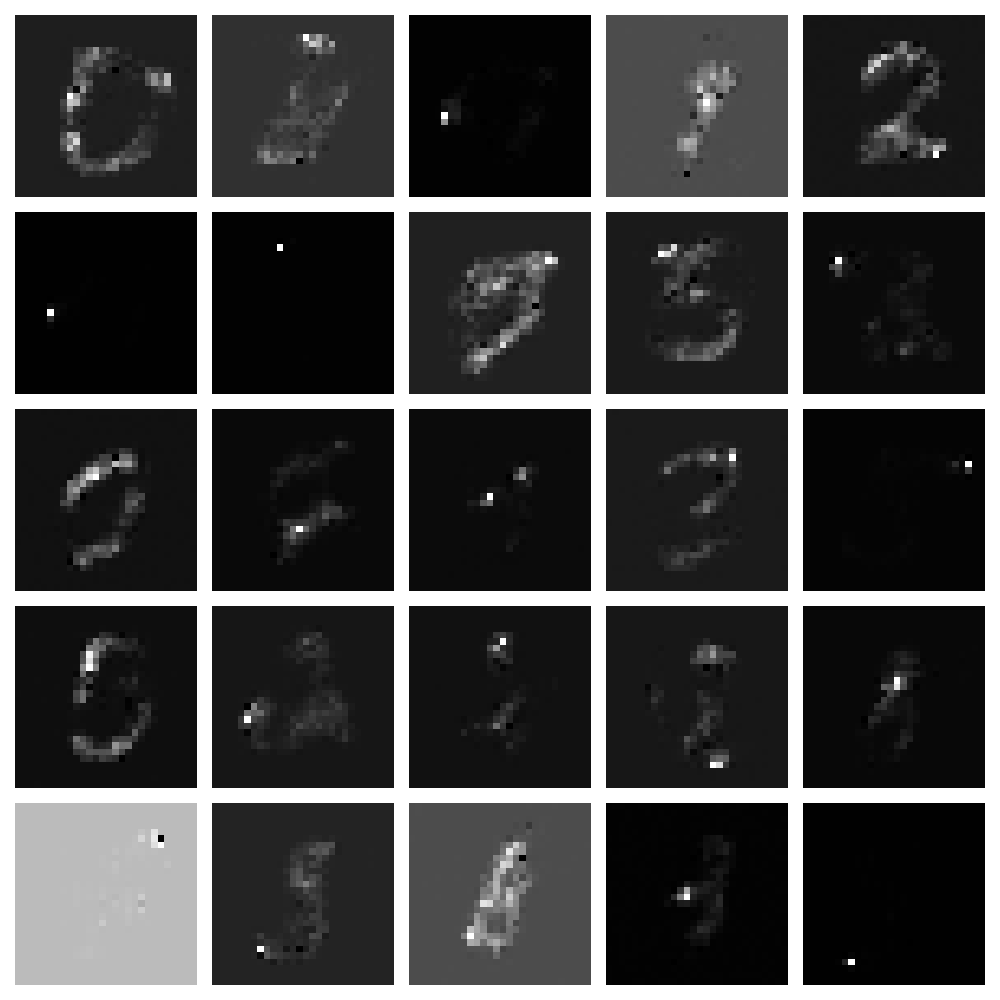
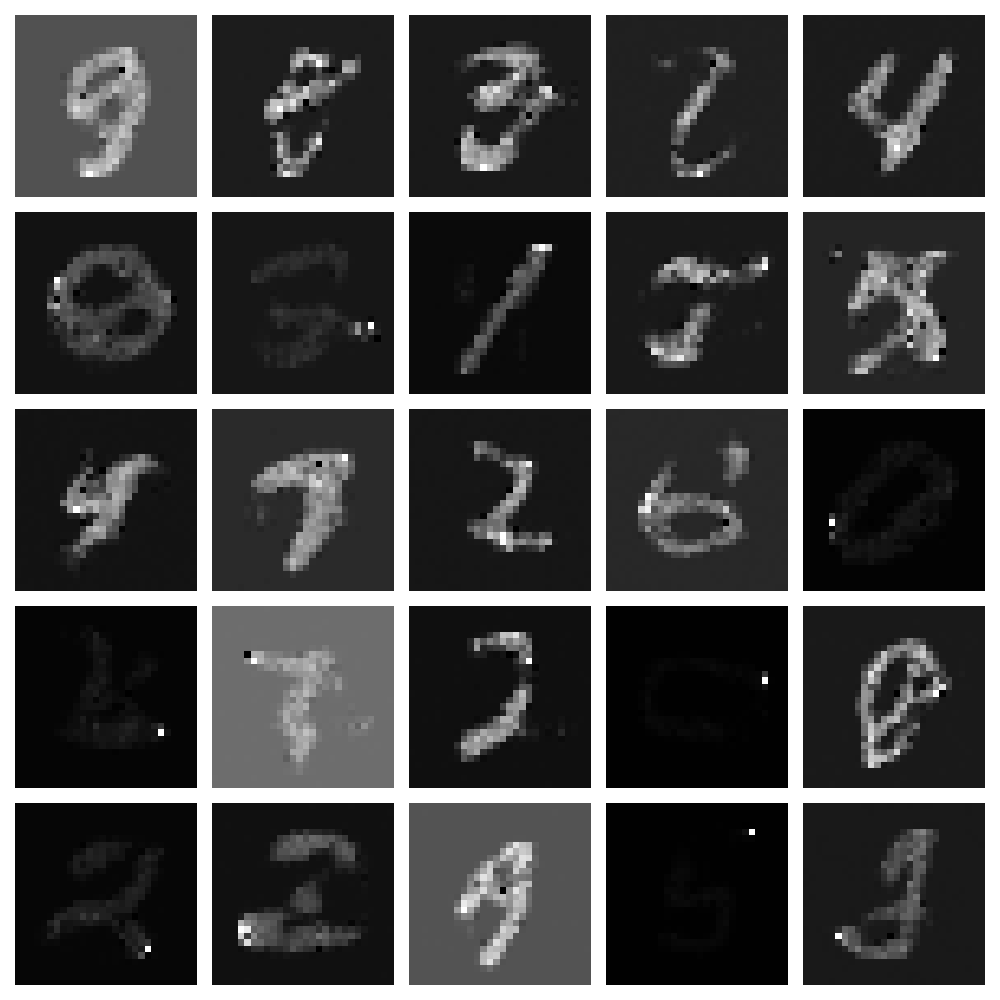
added device support, with registering buffers for masks

diff --git a/model/realnvp.py b/model/realnvp.py
@@ -68,8 +68,9 @@ class AffineCouplingLayer1d(nn.Module):
     super().__init__()
 
     self.idim = idim
+    # register this as buffer so it's automatically moved to devices
+    self.register_buffer("mask", self._init_mask(mask_first))
 
-    self.mask = self._init_mask(mask_first)
     self.s = self.MLP(idim, hdim, depth=neural_net_layers)
     self.t = self.MLP(idim, hdim, depth=neural_net_layers)
 
@@ -132,7 +133,8 @@ class AffineCouplingLayer2d(nn.Module):
     super().__init__()
     assert len(idim) >= 2 
     self.idim = idim 
-    self.mask = self._init_mask(mask_first) 
+    self.register_buffer("mask", self._init_mask(mask_first)) 
+    
 
     self.s = self.CNN(idim, depth=neural_net_layers) 
     self.t = self.CNN(idim, depth=neural_net_layers) 
@@ -177,7 +179,7 @@ class RealNVP(nn.Module):
   affine coupling layer, and convolutions to process 2d images directly. 
   """
 
-  def __init__(self, idim: Size, n_coupling_layers: int, neural_net_layers: int, hdim: Size): 
+  def __init__(self, idim: Size, n_coupling_layers: int, neural_net_layers: int, hdim: Size, device): 
     super().__init__()
     self.idim = idim
     
@@ -189,6 +191,8 @@ class RealNVP(nn.Module):
     self.coupling_layers = nn.ModuleList(coupling_layers)
 
     self.latent_prior = LogisticDistribution()
+    self.device = device
+    self.to(device)
 
   def forward(self, x: Tensor): 
     logdet_accum = 0.0
@@ -204,6 +208,6 @@ class RealNVP(nn.Module):
     return z 
 
   def sample(self, n_samples: int): 
-    z = self.latent_prior.sample([n_samples, *self.idim])
+    z = self.latent_prior.sample([n_samples, *self.idim]).to(self.device)
     return self.inverse(z)
 

diff --git a/model/nice.py b/model/nice.py
@@ -35,7 +35,8 @@ class CouplingLayer(nn.Module):
     super().__init__()
     self.idim = dim  
     self.odim = dim
-    self.mask = self._init_mask(mask_first)
+    self.register_buffer("mask", self._init_mask(mask_first))
+    
     self.mlp = self.MLP(dim, hdim, depth=neural_net_layers)
 
   def _init_mask(self, mask_first: bool): 
@@ -86,7 +87,7 @@ class NICE(nn.Module):
   Simplest finite normalizing flow model by Dinh 2014. 
   """
 
-  def __init__(self, idim: Size, n_coupling_layers: int, neural_net_layers: int, hdim: Size): 
+  def __init__(self, idim: Size, n_coupling_layers: int, neural_net_layers: int, hdim: Size, device): 
     super().__init__()
     self.idim = idim
 
@@ -98,6 +99,8 @@ class NICE(nn.Module):
 
     self.scaling_layer = ScalingLayer(idim)
     self.latent_prior = LogisticDistribution()
+    self.device = device 
+    self.to(device)
 
   def forward(self, x: Tensor): 
     logdet_accum = 0.0
@@ -114,7 +117,6 @@ class NICE(nn.Module):
     return z 
 
   def sample(self, n_samples: int): 
-    sample_size = torch.Size([n_samples, *self.idim]) 
-    z = self.latent_prior.sample(sample_size)
+    z = self.latent_prior.sample([n_samples, *self.idim]).to(self.device)
     return self.inverse(z)
 

diff --git a/main.py b/main.py
@@ -8,26 +8,26 @@ import viz
 torch.manual_seed(42)
 device = "cuda" if torch.cuda.is_available() else "cpu"
 
-ds = mnist()
+ds = mnist_flat()
 dl = torch.utils.data.DataLoader(ds, batch_size=256, shuffle=True) 
 
-model = RealNVP(
+model = NICE(
   idim=ds[0][0].size(), 
-  n_coupling_layers=3, 
-  neural_net_layers=2,
-  hdim=torch.Size([50])
-).to(device)
+  n_coupling_layers=4, 
+  neural_net_layers=6,
+  hdim=torch.Size([1000]), 
+  device=device
+)
 
 optimizer = torch.optim.Adam(params=model.parameters(), lr=1e-3)
 
 best_loss = float('inf')
 
-# visualizations may not make sense when you change
 # viz.plot_distribution(model, ds) 
 viz.plot_samples(model, savefig="fig/0.png")
 
 for epoch in range(50): 
-  loss = tnt.train(model, dl, optimizer)
+  loss = tnt.train(model, dl, optimizer, device)
 
   if loss < best_loss: 
     torch.save(model.state_dict(), f"saved/state-dict.pt")

diff --git a/traintest.py b/traintest.py
@@ -8,7 +8,7 @@ def train_nice(model, dataloader, optimizer, device):
   model.train()
   total_loss = 0.0
 
-  for batch in dataloader: 
+  for batch in tqdm(dataloader): 
     x = batch[0].to(device)
     x = x.view(x.size(0), *model.idim)
     x += torch.rand_like(x) / 256

diff --git a/viz.py b/viz.py
@@ -2,7 +2,6 @@ import matplotlib.pyplot as plt
 import torch
 from torch.utils.data import TensorDataset
 from model import *
-from typing import Union
 
 def plot_distribution(model, ds: TensorDataset, savefig = None): 
   """

diff --git a/README.md b/README.md
@@ -1,6 +1,6 @@
 # normalizing-flows--pytorch
 
-Implementation of normalizing flow models: NICE, RealNVP, Glow, cGlow. All trained on M3 MacBook Pro. 
+Implementation of normalizing flow models: NICE, RealNVP, Glow, cGlow.
 
 | Figure 1 | Figure 2 |
 |----------|----------|
